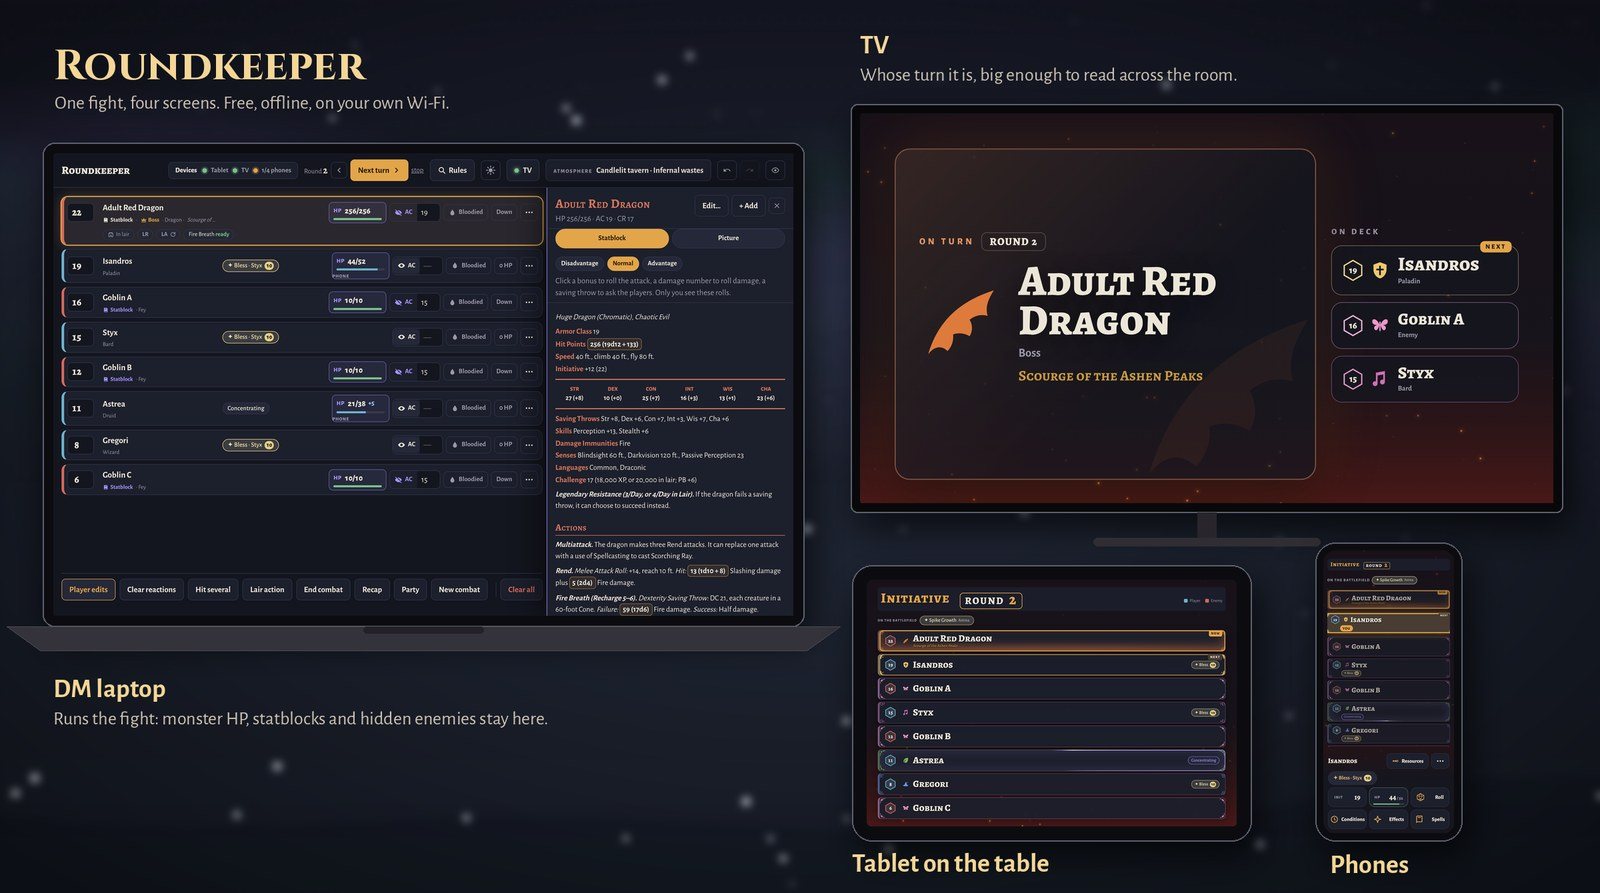
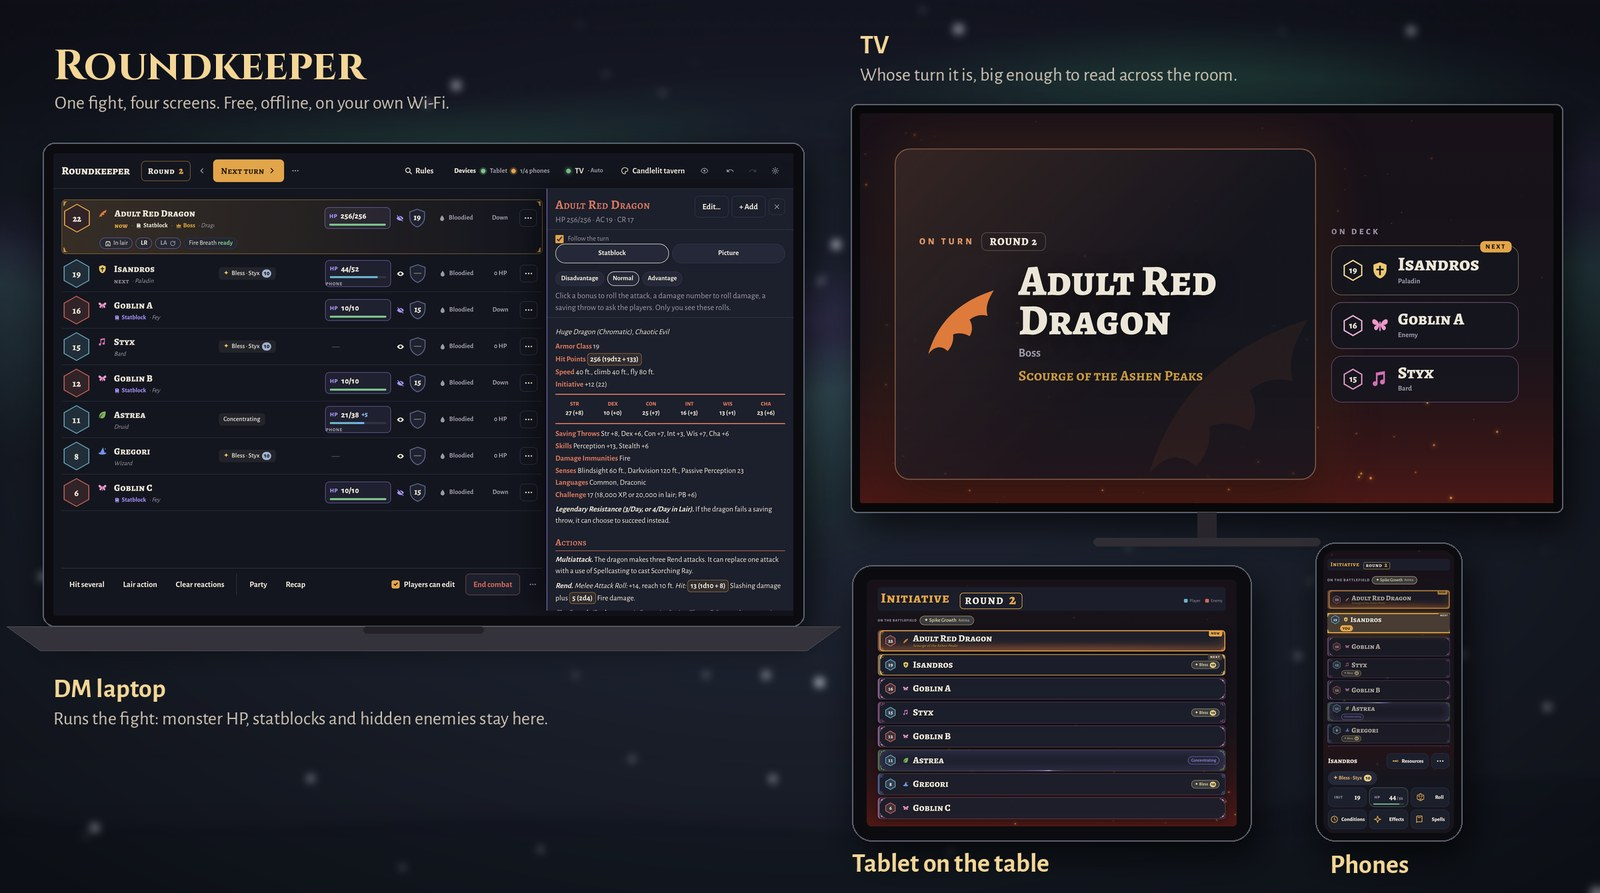
README for 1.1: new DM screen, pictures and preview
- A short New in 1.1 note, the DM screen picture and text about Follow the turn,
  the quiet menus and Light screen
- four-screens.jpg and the social preview with the new DM screen
- video_dm_rec.py: close the statblock with the new drawer button

Claude-Session: https://claude.ai/code/session_019XQztvW8TSKGeayguVyHtK

diff --git a/dev/media/video_dm_rec.py b/dev/media/video_dm_rec.py
@@ -56,7 +56,7 @@ async def main():
             await asyncio.sleep(1.0);await S("state.call.answers=Object.assign({},state.call.answers,{i:23});commit()")
         for k,v in (('s',12),('a',19),('gr',8)): await asyncio.sleep(.35);await S(f"state.call.answers=Object.assign({{}},state.call.answers,{{{k}:{v}}});commit()")
         await asyncio.sleep(1.3)
-        await go('#sbDrawer [data-act=sbclose]',dur=.35);await asyncio.sleep(.2)
+        await go('#sbDrawer .sbheadb [data-act=sbclose]',dur=.35);await asyncio.sleep(.2)
         await S("delete state.call;state.turn=Object.assign({},state.turn,{id:'gr',init:8});commit()");await asyncio.sleep(.6)
         mark("Hit several: one Fireball, every save and HP worked out")
         await go('[data-act=mtstart]',dur=.4);await asyncio.sleep(.35)

diff --git a/README.md b/README.md
@@ -33,6 +33,8 @@ https://github.com/user-attachments/assets/b3119115-4ceb-4f43-852a-88eef60b8636
 
 **Three short tours, under a minute each:** [the DM's laptop](#the-dms-laptop) · [the tablet and the TV](#the-tablet-and-the-tv) · [the players' phones](#on-players-phones)
 
+> **New in 1.1: a calmer DM screen.** The row whose turn it is stands out at a glance, and the statblock can follow the turn by itself. Tools you use every round stay in view; the rest moved into small ⋯ menus and Settings. [What changed](../../releases/tag/v1.1.0)
+
 ---
 
 ## One fight, four screens
@@ -49,12 +51,17 @@ https://github.com/user-attachments/assets/b81615ca-5366-434b-b284-847e599f6170
 
 <p align="center"><sub>From the DM's seat: monsters from the built-in SRD, the statblock, a roll call, Hit several, conditions, Ctrl+K, Devices and Atmosphere (under a minute, no sound).</sub></p>
 
+<img src="media/dm.jpg" width="100%" alt="The DM screen: the turn order with the Adult Red Dragon's turn, HP, AC and conditions in each row, and its statblock open on the right">
+
+One row per creature, in turn order: initiative, name, conditions, HP and AC. The creature whose turn it is gets a gold frame, and the one after it is marked *next*. The statblock opens beside the list, so the order stays in view.
+
 - **Initiative and turns:** add players and monsters, roll or type initiative, step through turns and rounds. Undo is always there.
-- **Statblocks you click:** an attack bonus rolls the attack, a damage number rolls damage, a save sends a roll call to the players it targets. Recharge, X/Day and Legendary actions are tracked as you use them.
+- **Statblocks you click:** an attack bonus rolls the attack, a damage number rolls damage, a save sends a roll call to the players it targets. Recharge, X/Day and Legendary actions are tracked as you use them. With **Follow the turn** on, the statblock switches to each monster as its turn comes up.
 - **Monster HP that only you see:** damage, healing, temp HP and a history you can undo one entry at a time. Bloodied and Down stay your call.
 - **Hit several:** one Fireball or breath weapon on several targets, with saves rolled from each statblock, resistances applied, and players asked on their phones.
 - **Conditions and spells with their 2024 durations**, ending by themselves at the right turn; Concentration saves worked out for you.
 - **Devices:** one window with the QR code, every screen and phone, whether it's connected, and its full address.
+- **A quiet screen:** the buttons you need every round are always there; **New combat**, **Clear all** and stopping turn tracking wait in small ⋯ menus, and settings sit behind the gear, with a **Light screen** for a bright room.
 
 <details>
 <summary><b>More for the DM</b></summary>
@@ -62,7 +69,7 @@ https://github.com/user-attachments/assets/b81615ca-5366-434b-b284-847e599f6170
 - **Rules lookup (Ctrl+K):** spells, conditions, rules and items, with cards you can pin or show on the table.
 - **Lair actions, countdowns** ("the ritual completes in 3 rounds"), **ongoing damage** (Heat Metal, poison) and **monster groups** that players see as one row.
 - **Players' character sheets:** open a player's sheet like a statblock, with clickable bonuses and their prepared spells. Fill in or paste a sheet yourself and send it to their phone, or keep it only for you for a player on paper.
-- **Players' HP from their phones** shows in their rows (only you see it).
+- **Players' HP from their phones** shows in their rows (only you see it). A player who keeps HP on paper gets a quiet dash.
 - **Party numbers:** AC, passive Perception, Insight and Investigation and spell DCs in one table.
 - **Boss tools:** preview the reveal before you show it, give a boss a title and its own background.
 - **Summons and familiars** that follow their owner's turn, with HP the player can see.
